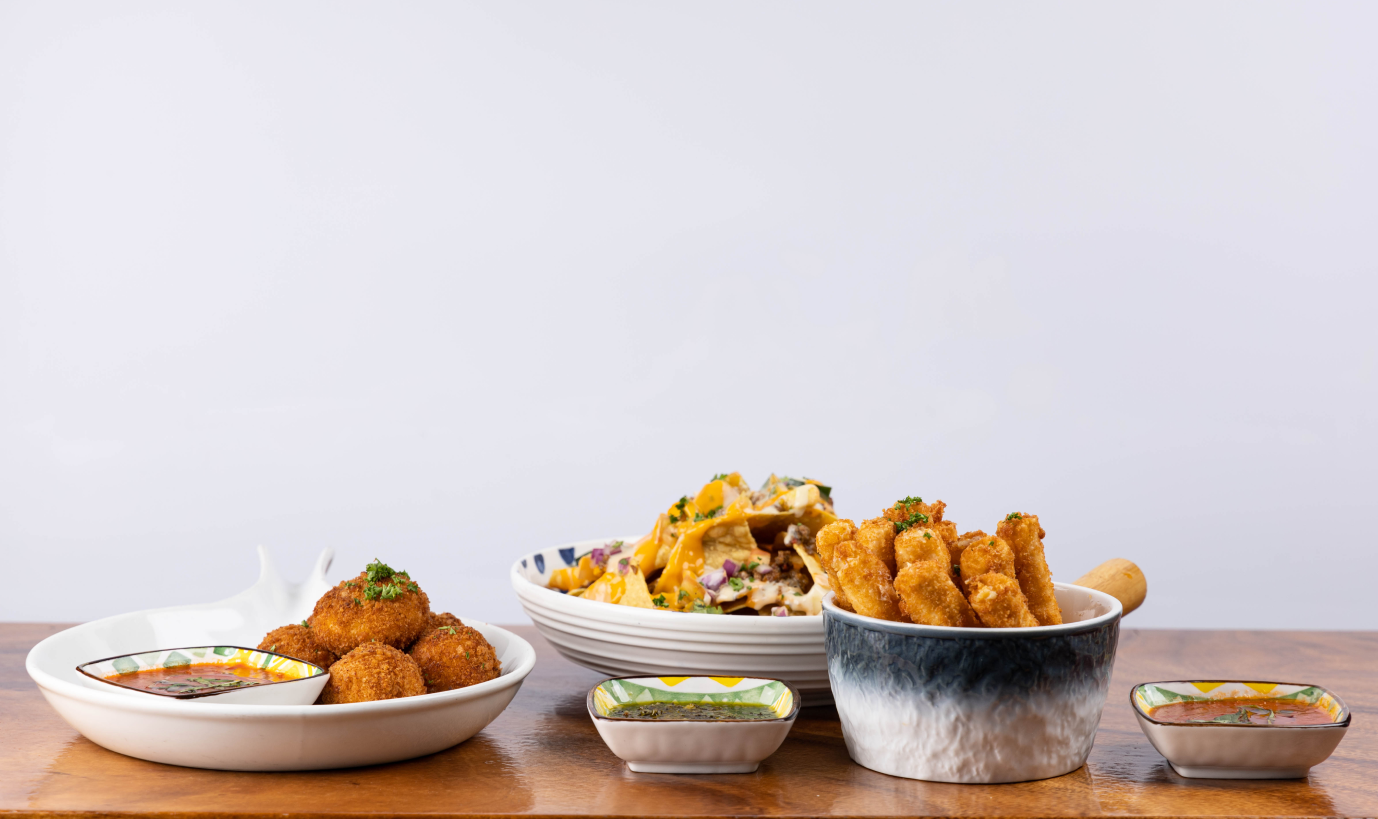
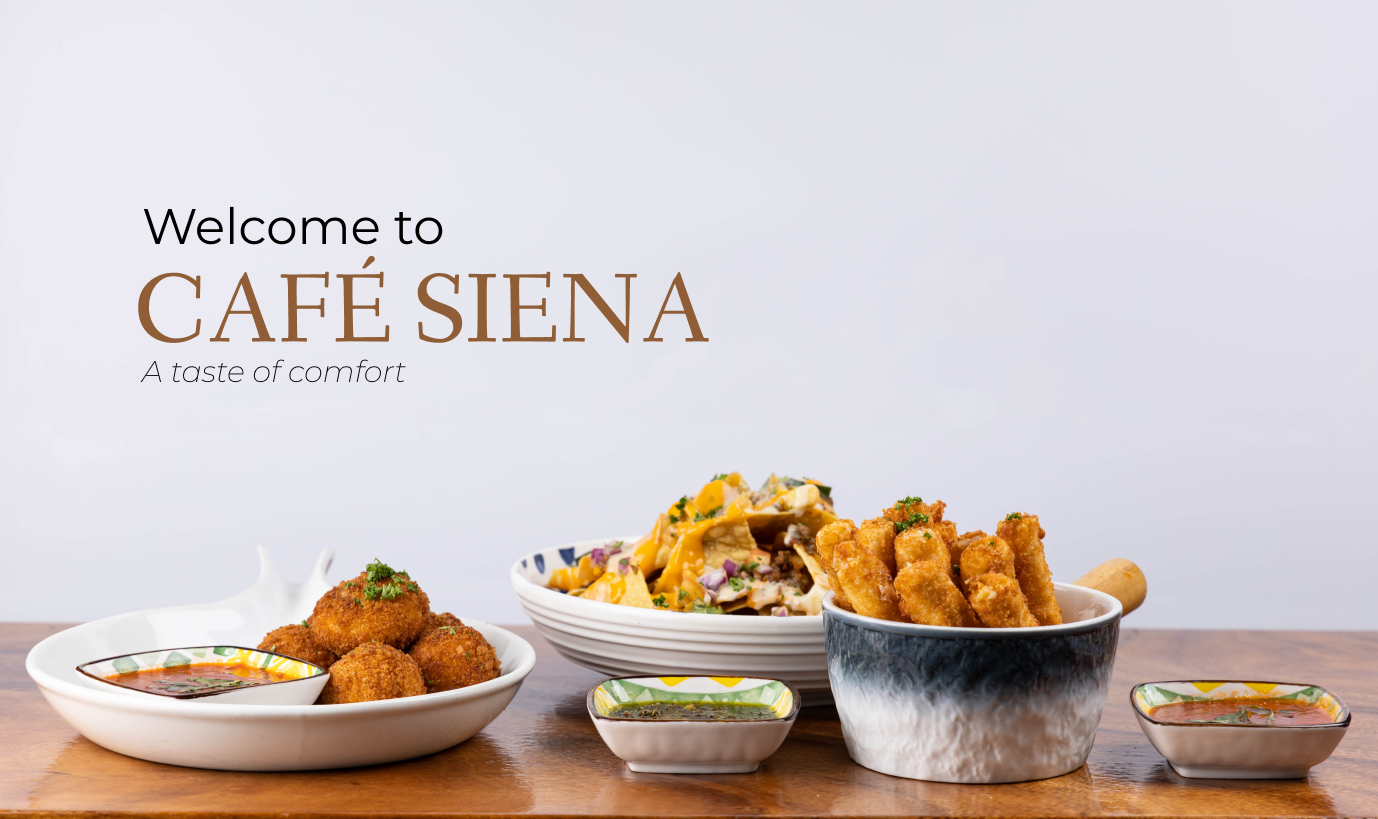
eto

Changed region(s): [[0.0936, 0.2442, 0.5305, 0.4579]]

diff --git a/CafeSE2/pages/home.php b/CafeSE2/pages/home.php
@@ -77,17 +77,16 @@ while ($row = mysqli_fetch_assoc($content_result)) {
       // Use the content_image_url in the inline style for the background
       echo '<div class="welcome-container" style="background: url(../content_images/' . $content_images[1] . '); background-position: bottom; background-size: cover;">';
       ?>
-      <div class="welcome-message">
+      <!-- <div class="welcome-message">
         <h3>WELCOME TO</h3>
         <h1>CAFÉ SIENA!</h1>
         <h5>A taste of comfort</h5>
-      </div>
-      </div>
+      </div> -->
     </section>
 
     <!-- Image Carousel -->
     <section>
-      <div class="row">
+      <div class=" col-md-12 row">
         <div class="col-md-6">
           <div id="carouselFade" class="carousel slide carousel-fade" data-bs-ride="carousel">
             <div class="carousel-inner">

diff --git a/CafeSE2/pages/admin_contact_us.php b/CafeSE2/pages/admin_contact_us.php
@@ -3,7 +3,7 @@ session_start();
 include 'connect.php';
 
 // Number of records per page
-$records_per_page = 10;
+$records_per_page = 20;
 
 // Get the current page number
 $current_page = isset($_GET['page']) ? $_GET['page'] : 1;

diff --git a/CafeSE2/pages/admin_menu.php b/CafeSE2/pages/admin_menu.php
@@ -2,7 +2,7 @@
 include 'connect.php';
 
 // Number of records per page
-$records_per_page = 2;
+$records_per_page = 5;
 
 // Get the current page number
 $current_page = isset($_GET['page']) ? $_GET['page'] : 1;
